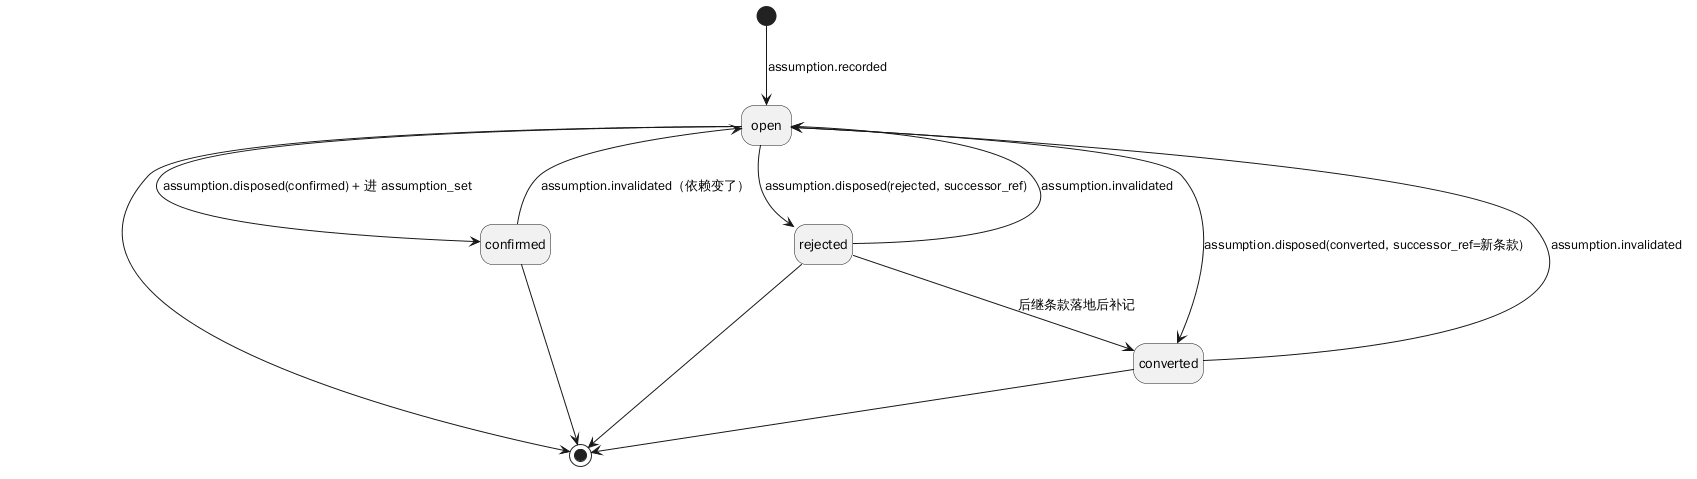
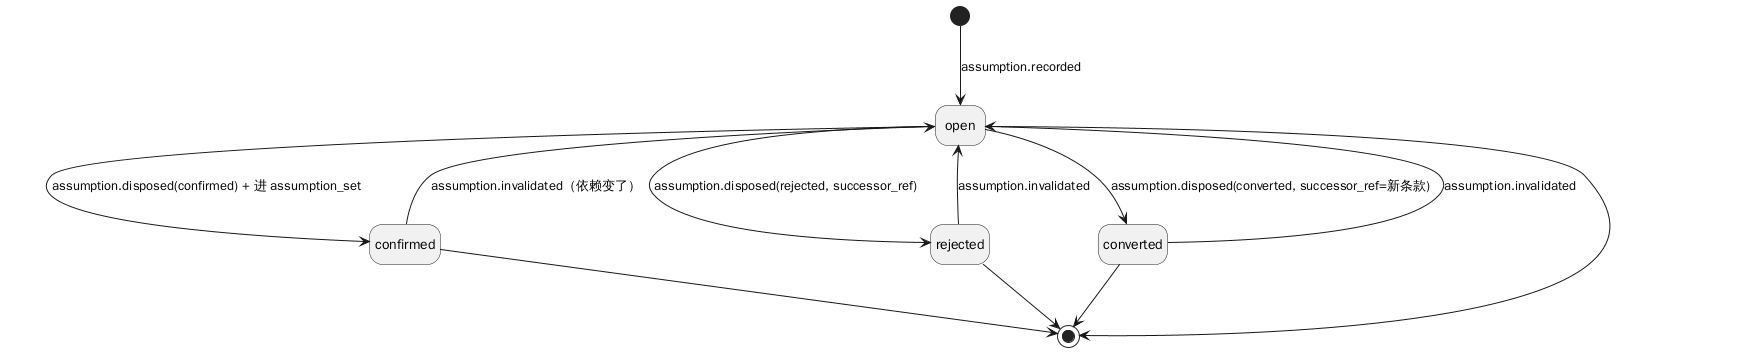
docs+design+probe: 第十五轮评审修复（先签后处置、集合签字 freshness、撤销级联、失效 fold 规则）

diff --git a/probe/run.py b/probe/run.py
@@ -372,47 +372,91 @@ def probe_goal_root() -> None:
 
 
 def probe_assumption_transitions() -> None:
-    """假设状态机：确认 / 拒绝（带后继）/ 未处置，三条投影与判据谓词。
+    """假设状态机：先签后处置、旧签字会过期、撤销会级联。
 
-    这不是实现：只把 docs/03 的迁移规则照抄成函数，验证**规则本身闭合**
-    （rejected/converted 可达、open 会拦住派发）。
+    照抄 docs/03 + docs/04 + docs/06 的规则，验证四件事：
+    ①没有集合签字的处置必须被拒；②载荷与事件不一致必须被拒；
+    ③`invalidated` 回 `open` 后旧签字不再算覆盖（`assumption_set.signed` 变假）；
+    ④撤销集合签字会把覆盖的假设打回 `open`。
     """
-    specs = {}          # spec_id -> dict(clause=..., successor=None)
+    specs = {}        # spec_id -> {status, successor, decision, inputs}
+    batches = {}      # decision_id -> {spec_id: disposition}
+    revoked = set()
 
-    def recorded(sid: str) -> None:
-        specs[sid] = {"status": "open", "successor": None}
+    def recorded(sid: str, inputs: dict[str, str] | None = None) -> None:
+        specs[sid] = {"status": "open", "successor": None, "decision": None,
+                      "inputs": dict(inputs or {})}
 
-    def disposed(sid: str, disposition: str, successor: str | None = None) -> None:
-        rec = specs[sid]
+    def sign_batch(decision: str, dispositions: dict[str, str]) -> None:
+        batches[decision] = dict(dispositions)
+        for sid in dispositions:
+            specs[sid]["decision"] = decision          # 已授权、待投影
+
+    def disposed(sid: str, disposition: str, decision: str | None = None,
+                 successor: str | None = None) -> None:
+        if decision is None or decision not in batches or decision in revoked:
+            raise ValueError("没有覆盖该条的集合签字：处置必须带有效 decision_id")
+        if sid not in batches[decision]:
+            raise ValueError("这条假设不在该批签字里")
+        if batches[decision][sid] != disposition:
+            raise ValueError("事件的 disposition 与签名载荷不一致")
         if disposition in ("rejected", "converted") and not successor:
             raise ValueError("rejected/converted 必须带 successor_ref")
-        rec["status"] = disposition
-        rec["successor"] = successor
+        specs[sid].update(status=disposition, successor=successor, decision=decision)
 
     def invalidated(sid: str) -> None:
-        specs[sid]["status"] = "open"
+        specs[sid].update(status="open", successor=None)
+
+    def revoke(decision: str) -> None:
+        revoked.add(decision)
+        for sid in batches.get(decision, {}):
+            specs[sid].update(status="open", successor=None)
+
+    def set_signed() -> bool:
+        if not batches or all(d in revoked for d in batches):
+            return False
+        if any(v["status"] == "open" for v in specs.values()):
+            return False
+        return all(v["decision"] in batches and v["decision"] not in revoked
+                   for v in specs.values())
 
     def can_dispatch(card_specs: list[str]) -> bool:
         return all(specs[s]["status"] != "open"
                    and not (specs[s]["status"] == "rejected" and not specs[s]["successor"])
                    for s in card_specs)
 
-    recorded("A1"); recorded("A2"); recorded("A3")
-    disposed("A1", "confirmed")                       # 确认：在 assumption_set 里
-    disposed("A2", "rejected", successor="S-9")       # 拒绝 + 后继
-    can_dispatch_ok = can_dispatch(["A1", "A2"])
-    blocked_while_open = not can_dispatch(["A1", "A2", "A3"])
+    recorded("A1", {"S-1": "h1"}); recorded("A2", {"S-1": "h1"})
     try:
-        disposed("A3", "rejected")
-        no_successor_raised = False
+        disposed("A1", "rejected", successor="S-9")
+        unsigned = False
     except ValueError:
-        no_successor_raised = True
-    invalidated("A1")
-    invalidated_blocks = not can_dispatch(["A1", "A2"])
-    ok = can_dispatch_ok and blocked_while_open and no_successor_raised and invalidated_blocks
-    record("PASS" if ok else "FAIL", "15. 假设状态机：三条迁移都可达、open 拦派发",
-           f"confirmed+rejected⇒可派发={can_dispatch_ok}；open⇒拦={blocked_while_open}；"
-           f"rejected 无后继被拒={no_successor_raised}；invalidated 回 open⇒拦={invalidated_blocks}")
+        unsigned = True
+    sign_batch("D1", {"A1": "confirmed", "A2": "rejected"})
+    try:
+        disposed("A1", "rejected", decision="D1", successor="S-9")
+        mismatch = False
+    except ValueError:
+        mismatch = True
+    disposed("A1", "confirmed", decision="D1")
+    disposed("A2", "rejected", decision="D1", successor="S-9")
+    after_sign = set_signed() and can_dispatch(["A1", "A2"])
+    recorded("A3", {"S-2": "h9"})           # 新假设出现 ⇒ 未签 ⇒ 整批失效
+    blocked_open = (not set_signed()) and (not can_dispatch(["A1", "A2", "A3"]))
+    invalidated("A1")                       # 依赖变了 → 回 open，旧签字不算覆盖
+    stale_blocked = (not set_signed()) and (not can_dispatch(["A1", "A2"]))
+    sign_batch("D2", {"A1": "confirmed", "A3": "confirmed"})
+    disposed("A1", "confirmed", decision="D2")
+    disposed("A3", "confirmed", decision="D2")
+    reshipped = set_signed()
+    revoke("D2")                            # 撤销 → 覆盖的假设回 open
+    revoked_cascade = (specs["A1"]["status"] == "open") and (not set_signed())
+    ok = (unsigned and mismatch and after_sign and blocked_open
+          and stale_blocked and reshipped and revoked_cascade)
+    record("PASS" if ok else "FAIL",
+           "15. 假设状态机：先签后处置、旧签字过期、撤销级联",
+           f"无签字被拒={unsigned}；载荷不一致被拒={mismatch}；签后可派发={after_sign}；"
+           f"open 拦派发={blocked_open}；invalidated 后旧签字不算={stale_blocked}；"
+           f"重签后恢复={reshipped}；撤销级联回 open={revoked_cascade}")
 
 
 def probe_event_kind_closure() -> None:

diff --git a/design/check.py b/design/check.py
@@ -15,7 +15,7 @@
   R25 不变量矩阵的守卫点可落地（类/模块/03 P 号，Class.method 必须存在），表约束行写具体约束名；
   R26 模块依赖列 → 组件图必须有对应边（store→DBPort、vcs→VcsPort，core 不查）；
   R27 每个登记事件要么在 design 里有生产者，要么在 EXTERNAL_EVENTS 里逐条点名；
-  R28 每条阶段判据（docs/04）必须在 design/ 里出现（落点表或矩阵），否则红。
+  R28 §17.1 的执行点表必须与正文对得上：`P2` 的判据要在 P2 正文里、`02 矩阵` 的要在矩阵里，24 条一个不少。
   R29 三个 preset 的 gate 目录必须真的能冻出「三条保证全保持」：按 docs/04 的 guarantee 与
       applies_to 复算有效绑定（all_of + 不可豁免 + stage 适用），core 三条也必须有效绑定；
   R30 每个过程（P1–P15）都必须在 03 §17 表里有模块归属，且名字在 01 模块表里；

diff --git a/design/diagrams/build.py b/design/diagrams/build.py
@@ -753,7 +753,6 @@ hide empty description
 open --> confirmed : assumption.disposed(confirmed) + 进 assumption_set
 open --> rejected : assumption.disposed(rejected, successor_ref)
 open --> converted : assumption.disposed(converted, successor_ref=新条款)
-rejected --> converted : 后继条款落地后补记
 confirmed --> open : assumption.invalidated（依赖变了）
 rejected --> open : assumption.invalidated
 converted --> open : assumption.invalidated

diff --git a/docs/06-签字与安全.md b/docs/06-签字与安全.md
@@ -127,7 +127,7 @@ agent ──sdo_act(请求签字)─────────┘                 
   "decision_kind": "spec_set",  // ∈ {sign, spec_set, assumption_set, freeze, baseline, waiver, rollback}
   // rollback：绑目标 release 的 frontier 与产物 sha256（[09](09-交付与迁移.md)）
   "spec_ids": ["S-1", "S-2"],   // decision_kind ∈ {spec_set, assumption_set} 时必填：签的是集合，不是一句话
-  "dispositions": [             // 仅 assumption_set：逐条处置，由工具按 assumption.disposed 事件渲染（模型不能填）
+  "dispositions": [             // 仅 assumption_set：逐条处置，由工具按 preview 时的人选结果渲染（模型不能填）；签后事件由这份载荷投影
     {"spec_id": "S-1", "disposition": "confirmed"},
     {"spec_id": "S-2", "disposition": "rejected", "successor_ref": "S-9"}
   ],
@@ -156,14 +156,14 @@ agent ──sdo_act(请求签字)─────────┘                 
 
 - **`proposition` 由 renderer 从 `claim` 生成，模型不能自由撰写**——模型只能选 claim 集合；自由文本降级为 `note`（不参与 `content_hash`）。理由：允许自由命题，等于把“盲签”从后门放回来；
 - **签字对象是结构化载荷**，不是一段文字；
-- `content_hash` 覆盖"命题 + 证据引用 + 取值"，**任何一项变了签名即失效**；
+- `content_hash` 覆盖"命题 + 证据引用 + 取值"，**集合签字还要覆盖 `spec_ids[]` 与 `dispositions[]`**——签的是「哪些对象、每条怎么处置」，漏在 hash 外等于签了一个看不见的集合；**任何一项变了签名即失效**；
 - `as_of_frontier` 必须是签发时刻的**当前** frontier（防"签旧版本"）。
 
 **两种冻结不要混用同一个 `kind`**：`freeze` = 冻结 **release**（payload 必带 `scenarios_run[]`）；**`baseline`** = 冻结**尺子**（payload 带 baseline 的 id/hash/policy + `will_change_hash` + `guarantee_delta`，立项时还没有 scenario）。分开后 renderer、`verify` 与 P9 的"`scenarios_run` 非空"检查才分得清。
 
 **`baseline` 的命题由工具渲染，不由模型写**：句式固定为“这次冻结把尺子定为 N 个 stage / M 个 gate（相对上一版：收紧 X 项、放松 Y 项、转 `na` Z 项；**首次冻结没有上一版，这一段写"首次"**）；保证 1/2/3 分别是**保持**还是**降级**，降级逐条列出缺哪条判据”。**`guarantee_delta` 按判据的 `保证` 元数据机械算出**（[04](04-判据-门禁与负例.md) §4），人与模型都改不了；preview 请求里就算带了 delta 也**一律忽略**，以工具算出的为准（签字页显示的必须是算出的那份）。没有 `guarantee_delta` 的 baseline 签名**不可签发**——签字页缺"后果"一项即拒签（§6 第 2 条"不可盲签"）。否则人签的是一个 hash，"我这一签降了哪条保证"看不见，保证等级表就退化成文档提醒。
 
-`decision` 表：`id, **decision_kind, status**, payload, payload_hash, signature, key_id, signer, frontier, at, revoked_at, revoke_reason`。`decision_kind` 从 payload 提取（生成列）、`status ∈ {valid, invalid, revoked}`（由 `decision.*` 事件折叠），两者都要**建索引**——P3 按 `status='valid'` 找签字、判据按 `decision_kind` 找集合签字，没有列就只能全表扫 JSON。**只增不改**；撤销是新增一行 `decision.revoked`。
+`decision` 表：`id, **decision_kind, status**, payload, payload_hash, signature, key_id, signer, frontier, at, revoked_at, revoke_reason`。`decision_kind` 从 payload 提取（生成列）、`status ∈ {valid, invalid, revoked}`（由 `decision.*` 事件折叠），两者都要**建索引**——P3 按 `status='valid'` 找签字、判据按 `decision_kind` 找集合签字，没有列就只能全表扫 JSON。**只增不改**；撤销是新增一行 `decision.revoked`。**撤销会级联**：撤销一条 `assumption_set` ⇒ 它投影出的 `assumption.disposed` 失效，覆盖的假设**回到 `open`**（或标 `superseded`），必须重签一批；否则会出现「事件说已处置、签字已撤销」的裂缝。`spec_set`/`baseline` 的撤销同理：受它保护的判定一律回到待重验。
 
 ### 5.1 两种"集合签字"，别合并
 
@@ -171,11 +171,13 @@ agent ──sdo_act(请求签字)─────────┘                 
 
 | | `spec_set` | `assumption_set` |
 |---|---|---|
-| 签什么 | 本期 `kind='requirement'` 条款集合 | 当前 **`open` 的 `kind='assumption'` 条款集合** + 每条的 `dispositions[]`（`confirmed/rejected/converted` 与后继，工具渲染） |
-| 完整性 | 必须覆盖**全部** requirement；少一条 ⇒ `spec_set.signed` 红 | 必须覆盖**全部 open 假设**；**0 条是合法值** |
+| 签什么 | 本期 `kind='requirement'` 条款集合 | **这一批要处置的假设**（preview 时的 `open` 集合）+ **人选出来的** `dispositions[]`（`confirmed/rejected/converted` 与后继）——两者进同一份 payload，签完工具才按载荷写 `assumption.disposed(decision_id=…)` |
+| 完整性 | 必须覆盖**全部** requirement；少一条 ⇒ `spec_set.signed` 红 | **没有未授权的 `open`**：任何仍为 `open` 的假设都必须已被某条有效集合签字覆盖；**0 条是合法值** |
 | 失效范围 | 条款增删改 ⇒ 只影响需求签字 | 假设推翻/转正 ⇒ **只影响假设签字**，不连累需求签字 |
 | 空集 | 不可能（没有需求就没有这一期） | **必须显式签过**：签了空的 `assumption_set` 表示"我确认本期没有假设"，与"从没签过"是两件事（空集陷阱，[01](01-理论与边界.md) 命题 2） |
 | 频率 | 低（范围定了就不动） | 高（探索期天天变） |
+
+**顺序固定：先签后处置**。`assumption.disposed` 是**签名载荷的投影**，不是授权本身——它必须带 `decision_id`，指向覆盖该条的 `assumption_set`。所以「拒绝一条假设」也必须有人签过的载荷，模型不能自己写一条 `rejected` 就把假设从 open 里拿掉。
 
 **为什么不合并**：假设比需求变得频繁；如果假设混进 `spec_set` 的 `content_hash`，改一条假设就要重签整组需求——签字会退化成仪式，人开始盲签，签名就不再是证据。
 

diff --git a/design/REVIEW.md b/design/REVIEW.md
@@ -204,7 +204,31 @@
 | P2 schema/hash 三洞 | `decision` 表补 `decision_kind`/`status`（生成列/折叠列 + 索引）；release 不变量补"`baseline_hash` 必须非空"；`prev`/`direction` 进 hash、进 `decision(baseline)` 载荷、P15 组装清单，`verify` 按内容 diff 复算 direction；矩阵里"证据与判据一致"的 `G4` 误标改成表约束 | `docs/04/06/09`、`design/02/03` |
 | P2 台账与状态声明过度 | `REVIEW` 的"未覆盖 1"改为"规则已闭合、只有 probe 的规则级验证，实现仍未测"；`README` 状态改为"配置面可进入实现；假设/派发链规则已闭合（状态机进 probe），运行时未验"；`design/01` §7 的"5 个 GAP 未决期间兜底"改成历史说明 | `design/README`、本文件、`design/01` §7 |
 
-## 14. 当前状态与未覆盖项
+## 14. 评审十四（2026-11-03，**另一个评审会话**，复审 `63241ad`）
+
+**起点**：第十三轮之后的提交。**结论**：第十三轮的 4 个 P1 与大部分 P2 确认真修好；但**假设面的 P0 没真闭合**——从"迁移不可达"变成了"可达但无授权、且顺序自相矛盾"。核实：**属实**。
+
+| 发现 | 处置 | 落点 |
+|---|---|---|
+| **P0 `assumption_set` 与 `assumption.disposed` 的顺序与授权没定**：先处置 ⇒ 不再是 `open` ⇒ 进不了"覆盖全部 open"的集合 ⇒ `confirmed` 永远不成立；先签 ⇒ `dispositions[]` 要求按事件渲染，事件还没发生。且 `rejected`/`converted` 只要求"有后继"、不要求人签——模型可以自己拒绝一条假设，从此它不再 `open`、永不进入人签集合 | **改成「先签后处置」**：`assumption_set` 是**唯一授权**，`assumption.disposed` 只是它的**投影**——事件必须带 `decision_id`（指向覆盖该条的集合签字）、`disposition` 与载荷一致，否则**一律拒**。签名载荷里 `spec_ids[]` = **这一批被审的假设**（preview 时的 `open` 集合）、`dispositions[]` = **人选的结果**（不是事件回填）；`assumption_set.signed` 的完整性改成「**没有未授权的 `open`**」；失效回 `open` 必须重签一批。**probe #15 重写**：无签字处置被拒、载荷与事件不一致被拒、仍在 `open` 拦派发 | `docs/02/03/04/06`、`design/03` P12、probe `run.py` #15 |
+| P2 `Release` 矩阵仍缺「`baseline_hash` 非空」 | 矩阵行改成「**非空**，且与每条发布证据的 baseline 相同」 | `design/02` §5 |
+| P2 README / 检查器说明停在上一版（"十二轮"、"假设未进 probe"、R28 说排除 §16.1） | README 改十四轮、指针 §15、未覆盖项改成「运行时/抽样；假设规则已进 probe #15 但实现未写」；`check.py` 的 R28 说明改成"§17.1 执行点表与正文核对" | `design/README`、`design/check.py` |
+| P2 假设状态图多了一条 `rejected -> converted` 边，`docs/03` 没有这条迁移 | 删掉这条边（拒绝的后继是 `spec.revised`/`change.applied`，不是"转成假设"）；图与 docs 的迁移集合保持一一对应 | `design/diagrams/build.py`、`docs/03` |
+
+## 15. 评审十五（2026-11-05，**另一个评审会话**，续评工作树）
+
+**起点**：第十四轮的未提交改动。**结论**：先签后处置的主体修对了，但 **core 判据的 freshness 没实现**，且同一处留了一条方向相反的旧注释。**2 个 P1 + 4 个 P2**，核实为真。
+
+| 发现 | 处置 | 落点 |
+|---|---|---|
+| **P1 `assumption_set.signed` 会放行旧签字**：判据写"没有 open 落在有效签字之外"——`invalidated` 回 `open` 后，该假设仍在旧 `decision` 的 `spec_ids[]` 里 ⇒ 判 PASS；而 `assumption.disposed` 只查 `task.inputs[]`、且是**非 core**（lite 可不绑），所以 core 兜底漏了 | 谓词改成三条**同时**成立：①**没有任何 `open` 假设**（回 `open` 即红，旧签字不算覆盖）；②每条非 `open` 的状态都由**带有效 `decision_id`** 的 `assumption.disposed` 投影；③存在有效集合签字（空集也要签）。**probe #15 补 freshness**：签→处置→invalidate ⇒ 断言 `set_signed=false`；重签→处置 ⇒ `true` | `docs/04`、`probe/run.py` #15 |
+| **P1 `docs/06` 的 payload 注释仍是"事件先于签字"** | 注释改成「按 preview 时的人选结果渲染；签后事件由这份载荷投影」 | `docs/06` §5 |
+| P2 `content_hash` 没写明覆盖 `spec_ids[]` / `dispositions[]` | 覆盖说明补上：集合签字签的是「哪些对象、每条怎么处置」，漏在 hash 外等于签了一个看不见的集合 | `docs/06` §5 |
+| P2 `decision.revoked` 对假设处置没有级联 | 补规则：撤销 `assumption_set` ⇒ 它投影的 `disposed` 失效、覆盖的假设回 `open`，必须重签；`spec_set`/`baseline` 同理 | `docs/06` §5、probe #15 的撤销用例 |
+| P2 `assumption.invalidated` 的检测没算法 | 补 **fold 规则**：`inputs[]` 记 `{kind,id,hash}`，每次 条款修订与变更事件 后比对，任一 hash 变 ⇒ 落一条 `invalidated`；以 `(spec_id,input_id,旧hash)` 幂等，回 `open` 后按新 hash 重建边 | `docs/03` |
+| P2 矩阵还是旧口径（"覆盖全部 open"） | 改成「签字批覆盖 **preview 时**的 open；gate 判据要求全部已处置、无 open」 | `design/02` §5 |
+
+## 16. 当前状态与未覆盖项
 
 - 判据 **24 条**、过程 **15 个**、图 **28 张**、表 **26 张**、模块 **20 个**；G1–G5 全 A；探针 **21 PASS / 0 GAP**。
 - **未覆盖（明确不声称已验）**：
@@ -213,7 +237,7 @@
   3. "必须评审"目前按风险/kind 判定，**抽样强制**（每 N 张卡必抽 1 张）尚未落地——作者仍可只送稳的卡。
 - 下一轮评审若继续，优先看上面三项，而不是再加文档。
 
-### 14.1 结构与 OOM 覆盖自查（作者自查，非评审）
+### 16.1 结构与 OOM 覆盖自查（作者自查，非评审）
 
 按"概念表 → 类/上下文/模块"和"过程 → 模块"两个方向对了一遍，查出 5 处覆盖缺口（都已修）：
 

diff --git a/design/README.md b/design/README.md
@@ -1,8 +1,8 @@
 # 设计阶段（结构化设计 + 面向对象模型）
 
-> **状态：配置面已通过非作者评审，可进入实现**（十二轮，2026-11-02 至 11-03；记录见 [REVIEW.md](REVIEW.md)）。
+> **状态：配置面已通过非作者评审，可进入实现**（十五轮，2026-11-02 至 11-05；记录见 [REVIEW.md](REVIEW.md)）。
 > [`docs/14`](../docs/14-待决缺口.md) 的 G1–G5 **已全部决定（均选 A）**，探针 **21 PASS / 0 GAP**。
-> 三到十二轮提出的配置面问题**逐条处置完毕**：core 判据清单与**有效绑定**、release 绑 `baseline_hash`、baseline 影响面进签名、`docs/02` 的 baseline 引用语义、stage 的 `kinds` 与 `after` 边、`guarantee_delta` 的机械推导、**三个 preset 的 gate 目录**、**core 强制（无"写降级就过"后门）**。**仍有 3 项未覆盖**（假设状态机未进 probe、运行时未验、评审抽样未落地），见 [REVIEW.md](REVIEW.md) §13——实现从 [docs/09 §16](../docs/09-交付与迁移.md) 的 M1 开始。
+> 三到十五轮提出的配置面问题**逐条处置完毕**：core 判据清单与**有效绑定**、release 绑 `baseline_hash`、baseline 影响面进签名、`docs/02` 的 baseline 引用语义、stage 的 `kinds` 与 `after` 边、`guarantee_delta` 的机械推导、**三个 preset 的 gate 目录**、**core 强制（无"写降级就过"后门）**。**未覆盖**：运行时未验、评审抽样未落地；假设状态机的**规则**已进 probe #15，但**实现未写**（不是「未进 probe」），见 [REVIEW.md](REVIEW.md) §16——实现从 [docs/09 §16](../docs/09-交付与迁移.md) 的 M1 开始。
 
 > 这个目录接在 `docs/`（需求/设计基线）之后、实现之前。它回答两件事：
 > **系统怎么分层、模块怎么切**（结构化设计），以及 **对象怎么建模、职责怎么分**（OOM）。
@@ -24,7 +24,7 @@
 | [01-结构化设计](01-结构化设计.md) | 分层、模块、接口、依赖规则、数据流、事务与错误模型 |
 | [02-面向对象模型](02-面向对象模型.md) | 限界上下文、类图、状态图、顺序图、聚合与不变量守卫矩阵 |
 | [03-过程逻辑](03-过程逻辑.md) | 流程图、N-S 图、PAD 图、判定表/判定树（15 个过程：P1–P10 原样 + P11 对齐/复述、P12 假设处置、P13 变更返工、P14 评审收口、P15 配置与冻结；含 verify 与签字） |
-| [REVIEW.md](REVIEW.md) | **评审台账**：十二轮非作者评审的发现 → 处置 → 落点，以及明确的未覆盖项 |
+| [REVIEW.md](REVIEW.md) | **评审台账**：十五轮非作者评审的发现 → 处置 → 落点，以及明确的未覆盖项 |
 | [diagrams/](diagrams/) | 28 张图：**PlantUML**（流程图/类图/状态图/顺序图，`.puml`）+ **Graphviz**（N-S/PAD/判定树，`.dot`）；`python3 diagrams/build.py` 重新生成 |
 
 ## 评审门槛（进实现前必须满足）
@@ -57,7 +57,7 @@
 | R25 | 矩阵结构：**一行一条不变量、一个守卫点**（一行出现 `+`/`/` 或把 `verify` 当守卫都红）；守卫点可落地（类/模块/`03` P 号），`Class.method` 必须真有该方法 |
 | R26 | 依赖列 ↔ 组件图**双向**：表里写的依赖图里必须有边（`store`→`DBPort`、`vcs`→`VcsPort`，`core` 不画全）；图里画了模块→端口，依赖列也必须写出对应能力 |
 | R27 | 每个登记事件都要有生产者：出处在 `03` 过程逻辑或图里（散文提一句不算），否则必须在 `EXTERNAL_EVENTS` 里逐条点名 |
-| R28 | **每条阶段判据都要有 design 落点**：`docs/04` 的每个判据 code 必须出现在 `03` 的**过程正文**（排除 §16.1 映射表）或 `02` 的矩阵里；只在映射表/README 提一句不算 |
+| R28 | **§17.1 的执行点必须与正文对得上**：解析落点表，按 `P2` / `02 矩阵` 分别核对正文，且 24 条一个不少；删一行或改错执行点都会红 |
 | R29 | **preset 冻结结论可由机器复算**：严格解析 `docs/04` 的 `保证` 与 `applies_to`（非 kind 取值即红）+ `docs/08` §1.1 的三份 gate 目录（未知键即红），复算有效绑定（`all_of` + 不可豁免 + stage 适用），core 三条必须有效绑定；**末尾三组自检**保证"该拦的真被拦住" |
 | R30 | **每个过程都有模块归属**：`design/03` §17 表的模块列必须覆盖 P1–P15，且每个名字都在 `design/01` 模块表里（改名、删行都会红） |
 | R31 | **顺序图里的 L1→L1 调用必须登记**：实线 `->` 两端都属于 L1 时，目标模块必须出现在源模块的依赖列里（虚线 `-->` 是返回，不算）；抓"图里出现、架构里没登记"的漂移。**已知边界**：`handlers` 的依赖写作「L1 服务」（刻意抽象），L2→L1 不做逐边校验，见 `design/01` §3 |

diff --git a/docs/04-判据-门禁与负例.md b/docs/04-判据-门禁与负例.md
@@ -95,8 +95,8 @@ type Criterion = (view: Views, params: Params) => Result
 | `design.alternatives_declared` | 2 | 每条 `spec(kind='design')` 都有 `alternatives[]`（≥1）**或** `no_alternative_reason`；`alternatives[]` 里 **≥2 个 feasible** 时，必须链一条 `assumption` 或一条 `attention` | 补考虑过的方案与取舍；可行方案 ≥2 就写假设或问。**这是"可审计形态"不是"发现机制"**：`no_alternative_reason` 可能被编，必须按风险抽样复核或派红队（[13](13-阶段作业单.md) §4.2） | 设计条款列了 2 个方案并链 assumption ⇒ pass | 设计条款没写 alternatives 也没写理由 ⇒ fail；列了 2 个可行方案却没链 assumption/attention ⇒ fail |
 | `alignment.examples_present` | 1 | 每条 `spec(kind='requirement')` 至少有 **2 个正例**（`scenario` 或正例夹具）与 **1 个反例**（负例夹具或"什么情况不算"的场景）；**给不出反例** ⇒ 说明边界没想清 | 补正例/反例，或回去把边界问清 | 3 条条款各 2 正 1 反 ⇒ pass | 1 条条款只有正例、无任何反例 ⇒ fail |
 | `change.rework_counted` | — | 每条 `change.applied` 的 payload 含 `rework_units`（整数 ≥ 0），且等于**因本次变更作废的已完成 `work_unit` 数**（由 `work_unit` 与受影响对象复算） | 重新 preview（工具算），不许手填 | 变更作废 2 张已完成的卡，`rework_units=2` ⇒ pass | payload 缺 `rework_units`，或写 0 但实际作废 2 ⇒ fail |
-| `assumption.disposed` | 2 | **`task.inputs[]` 里**的每条 `spec(kind='assumption')` 的 `status` 都**已处置**：`confirmed`（且进过 `assumption_set`）/ `converted`（有 `successor_ref`）/ `rejected` **且有后继**；状态来自 `assumption.disposed` 事件投影，**不是人填**；`open` 或"`rejected` 无后继" ⇒ 不许派发/开工 | 先把假设问明白（`attention`），或改条款/转正 | 2 条假设均已 confirmed ⇒ pass | ① 1 条仍 `open` 却已开工 ⇒ fail；② `rejected` 但没有任何后继条款/变更 ⇒ fail |
-| `assumption_set.signed` | 2 | 存在 `decision(decision_kind='assumption_set')`，其 `spec_ids[]` **覆盖当前全部 `open` 的 `kind='assumption'` 条款**且绑 frontier；**一条假设都没有时也必须签一条空集**（签空集 ≠ 没签） | 重新签一次假设集合（`spec_ids[]` 全量；无假设就签空集） | 2 条 `open` 假设都在 `spec_ids[]` 里 ⇒ pass | 少一条 `open` 假设，或**从未签过** `assumption_set` ⇒ fail |
+| `assumption.disposed` | 2 | **`task.inputs[]` 里**的每条 `spec(kind='assumption')` 的 `status` 都**已处置**：`confirmed` / `converted`（有 `successor_ref`）/ `rejected` **且有后继**；状态来自 `assumption.disposed` 事件投影，**每条事件必须带 `decision_id`**（指向覆盖该条的 `assumption_set` 签字）——既不是人填，也不是模型能自己写的；`open` 或「`rejected` 无后继」⇒ 不许派发/开工 | 先把假设问明白（`attention`），或改条款/转正 | 2 条假设均已 confirmed ⇒ pass | ① 1 条仍 `open` 却已开工 ⇒ fail；② `rejected` 但没有任何后继条款/变更 ⇒ fail |
+| `assumption_set.signed` | 2 | 三条同时成立：①**没有任何 `open` 的假设**（`invalidated` 一回 `open` 就红——旧签字不算覆盖，这正是不认「旧签字过期」的那个洞）；②**每条非 `open` 的状态都由一条带有效 `decision_id` 的 `assumption.disposed` 投影**（事件与有效签字对得上，决策被撤销就一并失效）；③存在有效 `decision(decision_kind='assumption_set')`，其 `spec_ids[]` 是**那一批被审的假设**（preview 时的 `open` 集合）、`dispositions[]` 是人选的结果；**一条假设都没有时也必须签一条空集**（签空集 ≠ 没签） | 重新签一次假设集合（`spec_ids[]` 全量；无假设就签空集） | 2 条 `open` 假设都在 `spec_ids[]` 里 ⇒ pass | 少一条 `open` 假设，或**从未签过** `assumption_set` ⇒ fail |
 
 > `task.complete` 是**卡的完成判据**；事件仍叫 `task.done`（[02](02-真源-存储事件与折叠.md)「事件类型」）——判据名与事件名分开，避免 `verify` 与检查器混淆。
 

diff --git a/docs/03-链条-意图到声明.md b/docs/03-链条-意图到声明.md
@@ -64,11 +64,16 @@ field_consumer(field, consumer_kind, consumer_id)  ← 防死字段（view / ren
 - 一条 `assumption` 必须写清三样：**我假设什么**（`clause`）、**排除了哪些方案**（`alternatives[]`）、**如果假设错了会怎样**（`blast_radius`）；
 **状态图**：`open → confirmed | rejected | converted`（`invalidated` 回到 `open`）。
 
-- 状态 `open → confirmed | rejected | converted`，**三条迁移各有唯一生产者**，缺一个就有一半假设处置不了：
-  - `confirmed`：落了 `assumption.disposed(disposition='confirmed')`，**且**该假设在一条有效 `decision(decision_kind='assumption_set')` 的 `spec_ids[]` 里（不能"口头认了"）；
-  - `rejected`：落了 `assumption.disposed(disposition='rejected', successor_ref=…)`，`successor_ref` 指向取代它的 `spec.revised`/`change.applied`；**没有后继 ⇒ 仍算未处置**（判据红），不是"拒绝了就完事"；
-  - `converted`：落了 `assumption.disposed(disposition='converted', successor_ref=新条款id)`——假设升级成正式的 requirement/design 条款；
-  - `assumption.invalidated`：它 `inputs[]` 依赖的条款变了 ⇒ 回到 `open`，必须重签 `assumption_set`；
+- **先签后处置，签名是唯一授权**：三条迁移（`confirmed` / `rejected` / `converted`）都由 `assumption.disposed` 落，但它**必须带 `decision_id`**——指向一条有效 `decision(decision_kind='assumption_set')`，且该 decision 的 `spec_ids[]` 含这条假设、`dispositions[]` 里这一条与事件一致。**没有有效集合签字的处置一律拒**（模型不能自己"拒绝"一条假设）。
+  1. 人看当前 `open` 集合，逐条选 `confirmed` / `rejected`（带后继）/ `converted`（带新条款 id）；
+  2. 工具渲染 `spec_ids[]`（**这一批被审的假设**，即 preview 时的 `open` 集合）与 `dispositions[]`（人选的结果），**不是"当前 open"、也不是事件回填**；
+  3. 人签 `decision(kind='assumption_set')`；
+  4. 签完，工具按签名载荷**逐条写 `assumption.disposed(decision_id=…)`**，`status` 由这些事件投影。
+- **三条迁移的语义**：
+  - `confirmed` = 签名载荷里这条是 `confirmed`（"我认这个前提"）；
+  - `rejected` = 载荷里是 `rejected` 且带 `successor_ref`（指向取代它的 `spec.revised`/`change.applied`）；**没有后继 ⇒ 仍算未处置**（判据红），不是"拒绝了就完事"；
+  - `converted` = 载荷里是 `converted` 且 `successor_ref` 指向升级成的正式 requirement/design 条款；
+- `assumption.invalidated`：它 `inputs[]` 依赖的条款变了 ⇒ 回到 `open`，必须**重新签一批**（旧签字的覆盖不算数）。**检测是 fold 规则**：每条 `inputs[]` 边记 `{kind, id, hash}`；每次 `spec.revised`/`change.applied` 之后，`fold` 比对每条假设的输入 hash，**任一不等 ⇒ 落一条 `assumption.invalidated`**；以 `(spec_id, input_id, 旧 hash)` 为键做幂等（同一对只落一次），回到 `open` 后按新的 hash 重建边；
 - **卡关联怎么算**：`task.inputs[]` 里可以包含 `{kind:'assumption', id}`；判据 `assumption.disposed` **只查 `task.inputs[]` 里的假设**。所以**raise 假设时必须同时写进受影响卡片的 `inputs`**（否则它不属于任何卡，也就不会被检查）；没有卡的假设由 `assumption_set` 兜住；
 - **开工前置**：卡关联的假设里有一个 `open`（或 `rejected` 但没有后继）⇒ 不许派发/开工（判据 `assumption.disposed`）。它保证的是**"不能静默开工"**：没声明的选择仍可能发生，但一旦声明就必须处置完——**不能静默选，必须留下可审计的声明**，而不是"不靠模型自觉"。
 

diff --git a/design/03-过程逻辑.md b/design/03-过程逻辑.md
@@ -331,10 +331,11 @@
 | 新建卡 | **必须继承其 `intent` 下所有已确认的假设**（写进 `task.inputs[]`），否则 `assumption.disposed` 会漏查历史假设 |
 | 没覆盖的选择**不可逆**（删数据、迁移、发布、对外契约） | 开 `attention`（阻塞），不许记假设 |
 | 没覆盖的选择**可回退** | 落 `spec(kind='assumption')`（`assumption.recorded`），必须带 `blast_radius`；同时写进受影响卡的 `task.inputs[]` |
-| 处置一条假设 | 落 **`assumption.disposed`**，`disposition` 三选一：`confirmed`（还要进 `assumption_set` 的 `spec_ids[]`）/ `rejected`（必须带 `successor_ref`，指向取代它的 `spec.revised`/`change.applied`）/ `converted`（必须带 `successor_ref=新条款 id`）。**这是 `status` 的唯一迁移生产者**；没有它，`rejected`/`converted` 根本不可达 |
-| 它依赖的条款变了（`inputs[]` 命中） | 落 `assumption.invalidated` ⇒ 回到 `open`；受影响卡的 `task.inputs[]` 重算，`assumption_set` 必须**重签**（旧签字随依赖失效） |
+| 处置一批假设（**唯一授权入口**） | ① 人看当前 `open` 集合，逐条选 `confirmed` / `rejected`（带后继）/ `converted`（带新条款 id）；② 工具渲染 `spec_ids[]`（**这一批被审的假设**，即 preview 时的 `open` 集合）与 `dispositions[]`（人选的结果）；③ 人签 `decision(kind='assumption_set')`；④ 签完，工具按载荷**逐条写 `assumption.disposed(decision_id=…)`** |
+| 处置事件本身 | `assumption.disposed` **必须带 `decision_id`**（指向覆盖该条的集合签字）与 `disposition`；**没有有效签字的处置一律拒**——模型不能自己写一条 `rejected` 就把假设从 open 里拿掉。`rejected`/`converted` 必须带 `successor_ref`（分别指向 `spec.revised`/`change.applied` 或升级成的新条款） |
+| 它依赖的条款变了（`inputs[]` 命中） | 落 `assumption.invalidated` ⇒ 回到 `open`；受影响卡的 `task.inputs[]` 重算，**必须重新签一批**（旧签字的覆盖不算数） |
 | 假设 `open`，或 `rejected` 但没有后继 | **不派发、不开工**（`assumption.disposed` 的 fail 分支） |
-| 全部处置完 | 签 `assumption_set`：`spec_ids[]` 覆盖全部 `open` 假设、`dispositions[]` 逐条（工具按事件渲染），**空集也要签** → 才可派发 |
+| 什么时候算处置完 | **没有未授权的 `open`**：任何仍是 `open` 的假设都必须已被某条有效集合签字覆盖；**空集也要签**（签空集 = 我确认这一批没有假设） |
 
 ## 14. P13 变更与返工面
 

diff --git a/docs/02-真源-存储事件与折叠.md b/docs/02-真源-存储事件与折叠.md
@@ -275,7 +275,7 @@ impact(seed: NodeRef, opts: { maxDepth?: number; budget: number })
 | 域 | kind | 何时写 |
 |---|---|---|
 | 意图 | `intent.proposed` / `intent.signed` | 有人提出意图 / 有人签字 |
-| 条款 | `spec.defined` / `spec.revised` / `assumption.recorded` / `assumption.disposed` / `assumption.invalidated` / `scope.declared` / `design.locked` / `contract.defined` / `restatement.recorded` / `restatement.diff_dispositioned` / `restatement.invalidated` | 条款落地 / 修改（必须带理由）/ 跨模块契约（`spec.kind='contract'`，**没有独立 contract 表**）；**`assumption.disposed` 按条落处置**（`disposition ∈ {confirmed, rejected, converted}` + `successor_ref`）——它是 `status` 的**唯一迁移生产者**（`recorded` 只建 `open`，`invalidated` 只回 `open`） |
+| 条款 | `spec.defined` / `spec.revised` / `assumption.recorded` / `assumption.disposed` / `assumption.invalidated` / `scope.declared` / `design.locked` / `contract.defined` / `restatement.recorded` / `restatement.diff_dispositioned` / `restatement.invalidated` | 条款落地 / 修改（必须带理由）/ 跨模块契约（`spec.kind='contract'`，**没有独立 contract 表**）；**`assumption.disposed` 按条落处置**（`decision_id` + `disposition ∈ {confirmed, rejected, converted}` + `successor_ref`）——它是 `status` 的**唯一迁移生产者**（`recorded` 只建 `open`，`invalidated` 只回 `open`）；`decision_id` 必须指向一条有效 `decision(kind='assumption_set')` 且覆盖该条，**没有它的事件一律拒**（授权先于处置） |
 | 过程 | `task.created` / `task.claimed` / `task.blocked` / `task.done` / `task.reopened` / `task.dropped` | 卡的生命周期（**只记状态变更**） |
 | 分解 | `goal.declared` / `goal.reparented` / `goal.integrated` | 分解节点声明/改挂（走变更）/子块接上父块 |
 | 报告 | `report.recorded` / `attention.raised` / `attention.answered` | 执行者报进度；需要人作答时开 attention，答后关闭 |

diff --git a/design/02-面向对象模型.md b/design/02-面向对象模型.md
@@ -186,7 +186,7 @@
 | `busy` 卡必须有未过期 `lease`，且 `lease.actor = claim.actor` | `dispatch`（发 lease 时绑） | verify D | 领域 |
 | 复述必须绑当前 intent（hash 一致，改过即作废） | `restatement` 生成（03 P11） | — | 领域 |
 | 条款集合覆盖全部 `requirement`（`spec_set`） | `Decision.sign`（03 P10） | — | 领域 |
-| 假设集合覆盖全部 `open` 假设，空集也必须签 | `Decision.sign`（03 P10） | — | 领域 |
+| 集合签字覆盖 **preview 时的** open 假设；gate 判据要求「全部已处置、无 open」，空集也必须签 | `Decision.sign`（03 P10） | — | 领域 |
 | 每条需求条款有 2 正 1 反 | `alignment` 检查（03 P11） | — | 领域 |
 | 每条设计条款声明替代方案或"无替代"理由 | `alignment` 检查（03 P12） | — | 领域 |
 | `rework_units` 必须等于因变更作废的已完成卡数 | `fold` 复算（03 P13） | verify C | 领域 |
@@ -200,7 +200,7 @@
 | 冻结前审计快照已生成 | `Release.freeze`（03 P8） | — | 领域 |
 | 冻结前审计快照 `verify` 通过 | `Release.freeze`（03 P8） | verify A–D | 领域 |
 | 冻结缺口清单 = 集合差集 | `Release.freeze`（03 P8） | — | 领域 |
-| release 声明的 baseline 与每条发布证据的 baseline 相同 | `Release.freeze`（03 P8 前置⑤） | verify C | 领域 |
+| release 的 `baseline_hash` **非空**，且与每条发布证据的 baseline 相同 | `Release.freeze`（03 P8 前置⑤） | verify C | 领域 |
 | 冻结证据在冻结 frontier 内有效 | `Release.freeze`（03 P8） | — | 领域 |
 | 冻结前有人执行过 scenario（≥3 条，高风险条款每条款 ≥1） | `Release.freeze`（03 P8） | — | 领域 |
 | 弃用窗口未过期或已给替代路径 | `Release.freeze`（03 P8） | — | 领域 |

diff --git a/probe/REPORT.md b/probe/REPORT.md
@@ -56,7 +56,7 @@
 
 ## 四、这轮测试**没有**证明的事
 
-**先声明 assumption 的覆盖边界**：探针 #13 只证明**形状能表达**，**#15 是把 `docs/03` 的迁移规则照抄成函数**验证规则闭合（`rejected`/`converted` 可达、`open` 拦派发、`invalidated` 回 `open`）——它验的是**规则本身**，不是实现；`assumption_set.signed`（空集也要签）与失效传播的落库仍由判据与 P12 保证。**21 PASS 不等于"assumption 整套已验证"**。
+**先声明 assumption 的覆盖边界**：探针 #13 只证明**形状能表达**；**#15 是把 `docs/03/04/06` 的规则照抄成函数**，验证授权与新鲜度（无签字处置被拒、载荷不一致被拒、`open` 拦派发、`invalidated` 后旧签字不算、撤销集合签字会级联回 `open`）——它验的是**规则本身**，不是实现；真正的 fold、落库与并发仍未验证。**21 PASS 不等于"assumption 整套已验证"**。
 
 避免误读，逐条列出：
 
